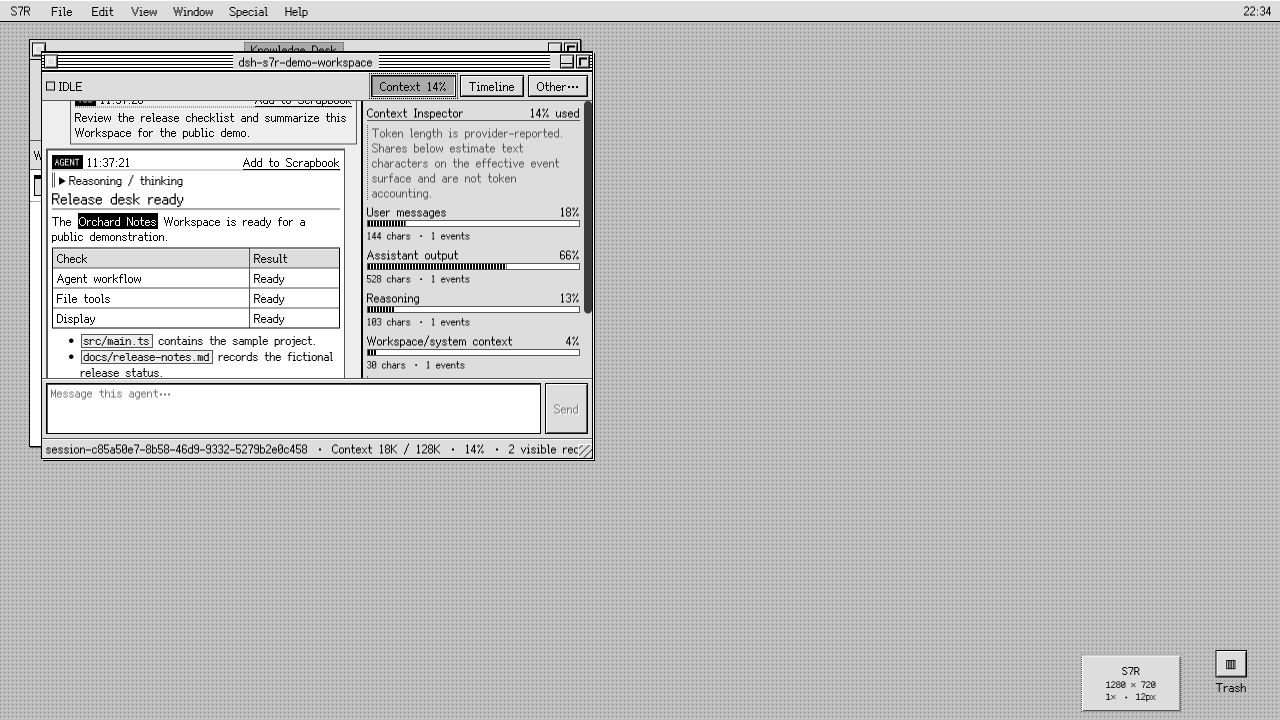
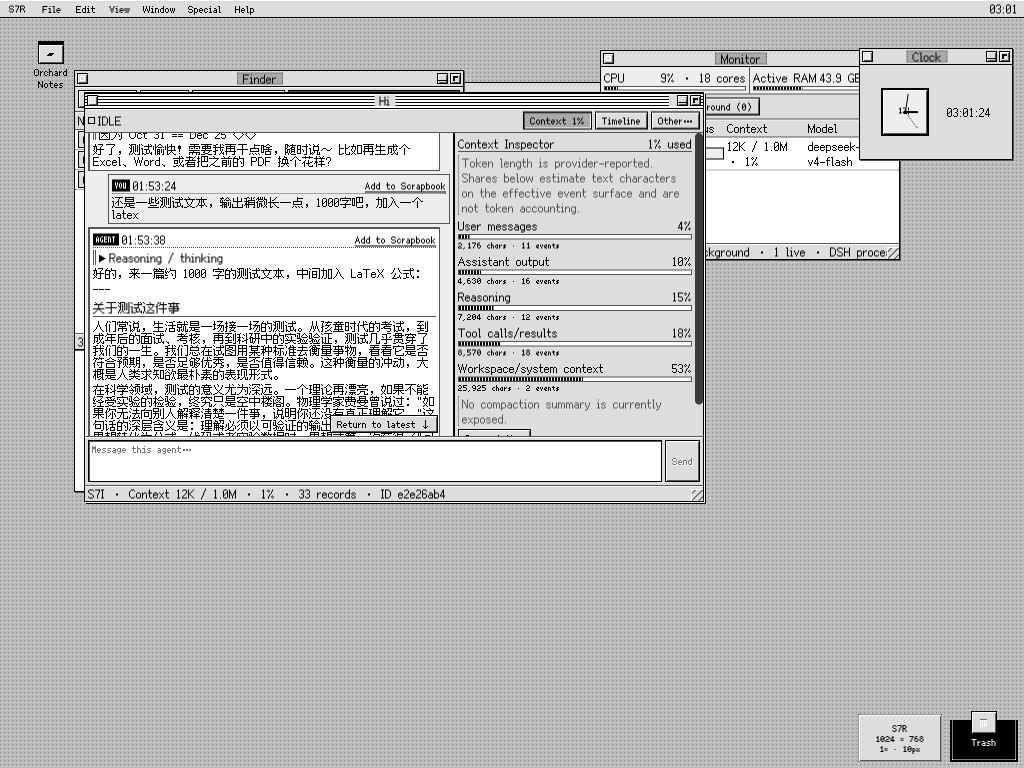
docs: refresh expanded README screenshots

diff --git a/README.md b/README.md
@@ -9,7 +9,9 @@ S7R is an original System 7-era workstation shell for the [DeepSeek Harness](htt
 
 **S7R** is the desktop environment. **Knowledge Desk** is its Workspace, Agent, and conversation application.
 
-![A naturally arranged S7R desktop with Knowledge Desk, Monitor, Clock, and Trash](./docs/screenshots/s7r-desktop.png)
+![An Expanded S7R desktop with Knowledge Desk naturally overlapping an Agent, Finder, Monitor, and Clock](./docs/screenshots/s7r-desktop.png)
+
+*Expanded 1024 × 768 at native 1× magnification. Knowledge Desk remains the center of the workflow while the active Agent, Finder, Monitor, Clock, desktop aliases, and Trash coexist on one persistent desktop.*
 
 DSH remains the source of truth. S7R does not copy conversations into its own chat database, start an unrelated shell server, or expose arbitrary host paths. It presents the capabilities already owned by DSH and keeps only desktop preferences—window positions, aliases, display choices, Scrapbook cards, and similar UI state—in the browser.
 
@@ -47,10 +49,10 @@ DSH remains the source of truth. S7R does not copy conversations into its own ch
 
 ### Prebuilt release
 
-Download `dsh-s7r-0.9.0.tgz` from the [latest GitHub Release](https://github.com/hunter118/dsh-s7r/releases/latest), then install it into the DSH Web profile:
+Download `dsh-s7r-0.9.1.tgz` from the [latest GitHub Release](https://github.com/hunter118/dsh-s7r/releases/latest), then install it into the DSH Web profile:
 
 ```sh
-dsh plugin --profile web add ./dsh-s7r-0.9.0.tgz
+dsh plugin --profile web add ./dsh-s7r-0.9.1.tgz
 dsh --profile web --dump-config
 dsh web
 ```
@@ -100,7 +102,9 @@ Browser-owned shortcuts such as Command-N and Command-W are intentionally not ad
 
 Knowledge Desk is both a Workspace launcher and an Agent browser. Its header and highlighted Workspace row make the current folder explicit, and **New Agent Here** always uses that selection. The Agent side defaults to the current Workspace, can broaden to all Workspaces, filter by run state, sort by recency/name/status, and group results under their Workspace. Opening an existing result reconnects a window to the real DSH `SessionRuntime` rather than creating a second chat record.
 
-![An Agent conversation overlapping Knowledge Desk with the Context Inspector expanded](./docs/screenshots/s7r-agent.png)
+![An Expanded Agent workspace with rendered conversation, Context Inspector, Finder, Monitor, and Clock](./docs/screenshots/s7r-agent.png)
+
+*The Agent stays in context: its Markdown conversation and Context Inspector share the foreground while Finder, live system pressure, Clock, Knowledge Desk, and desktop objects remain available behind it.*
 
 The Agent lifecycle is deliberately explicit:
 
@@ -126,6 +130,10 @@ Streaming follows the newest output only while the reader is already near the bo
 **S7R → DSH Control Center…** is an adapter over the selected Agent's public DSH services, not a second configuration database. It shows and applies real provider model/reasoning routes, allows DSH's Preset to change only while an Agent is still blank, lists Agent-scoped slash commands (including modes registered by its Preset), exposes project Skills through the same invocation path as the composer, and reports the loader's complete plugin inventory. DSH rc.7 publishes plugin inventory as read-only, so S7R intentionally does not draw switches that cannot be committed safely.
 
 **File → New from Stationery…** is a deliberately small Stationery Pad built on DSH Agent Presets. Choose a Workspace and installed Preset, optionally supply a display name and opening prompt, and S7R asks DSH to create the Agent with that composition. Preset descriptions and broken/local status come from DSH; S7R creates no competing template format.
+
+![A real zsh Terminal overlapping native DSH Commands and Modes, Find, Knowledge Desk, and Monitor](./docs/screenshots/s7r-workflows.png)
+
+*The same Expanded desktop can run a real Workspace-scoped zsh terminal over DSH's native command surface while Find, Knowledge Desk, and Monitor continue operating underneath.*
 
 ## Workspaces, Finder, TextEdit, and Preview
 
@@ -196,7 +204,9 @@ System applications and preferences live in their workflow menus. Clock and Puzz
 
 ## Display and wallpaper
 
-![Display controls overlapping Knowledge Desk on the seamless grayscale Cat wallpaper](./docs/screenshots/s7r-display.png)
+![Expanded Display controls with Cat wallpaper, Puzzle, Scrapbook, Knowledge Desk, Finder, Monitor, and Clock](./docs/screenshots/s7r-display.png)
+
+*Display is scrolled directly to wallpaper treatment while the seamless Cat tile, solvable Puzzle, Scrapbook toolbar, Knowledge Desk, Finder, Monitor, and Clock demonstrate that display changes do not suspend the rest of the desktop.*
 
 Display separates four concerns:
 
